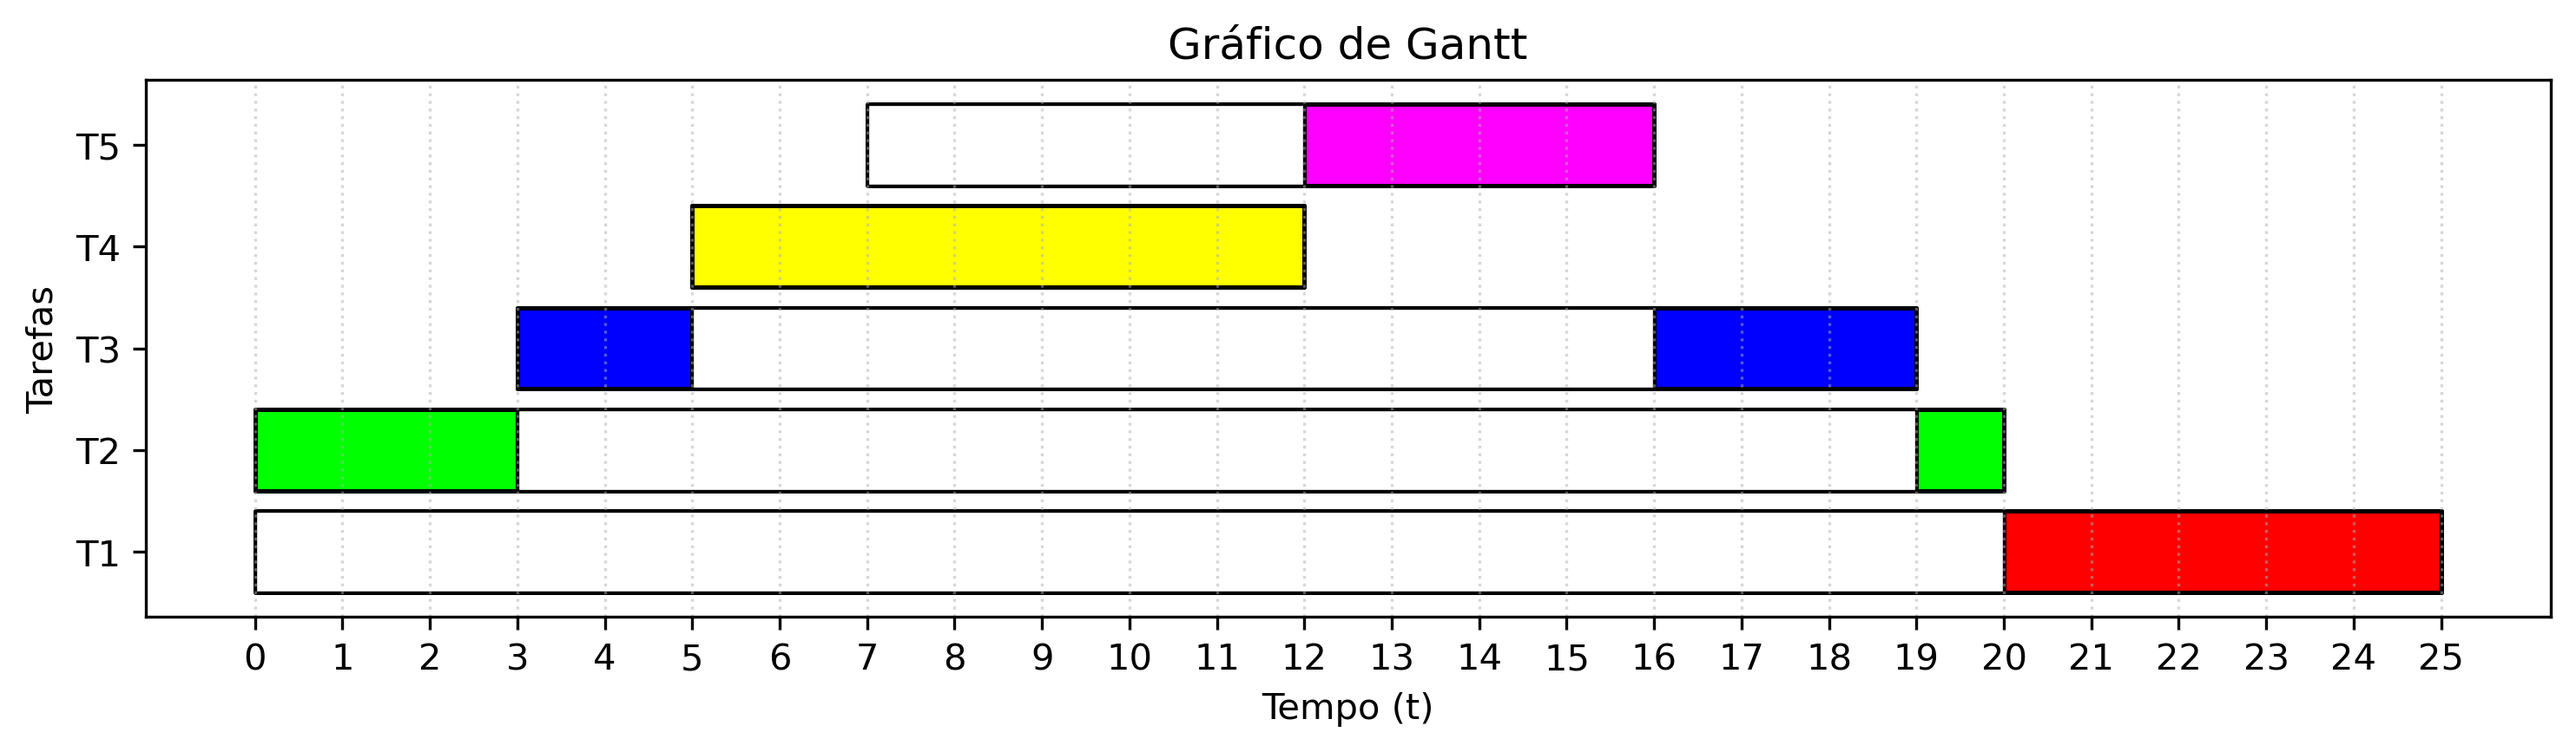
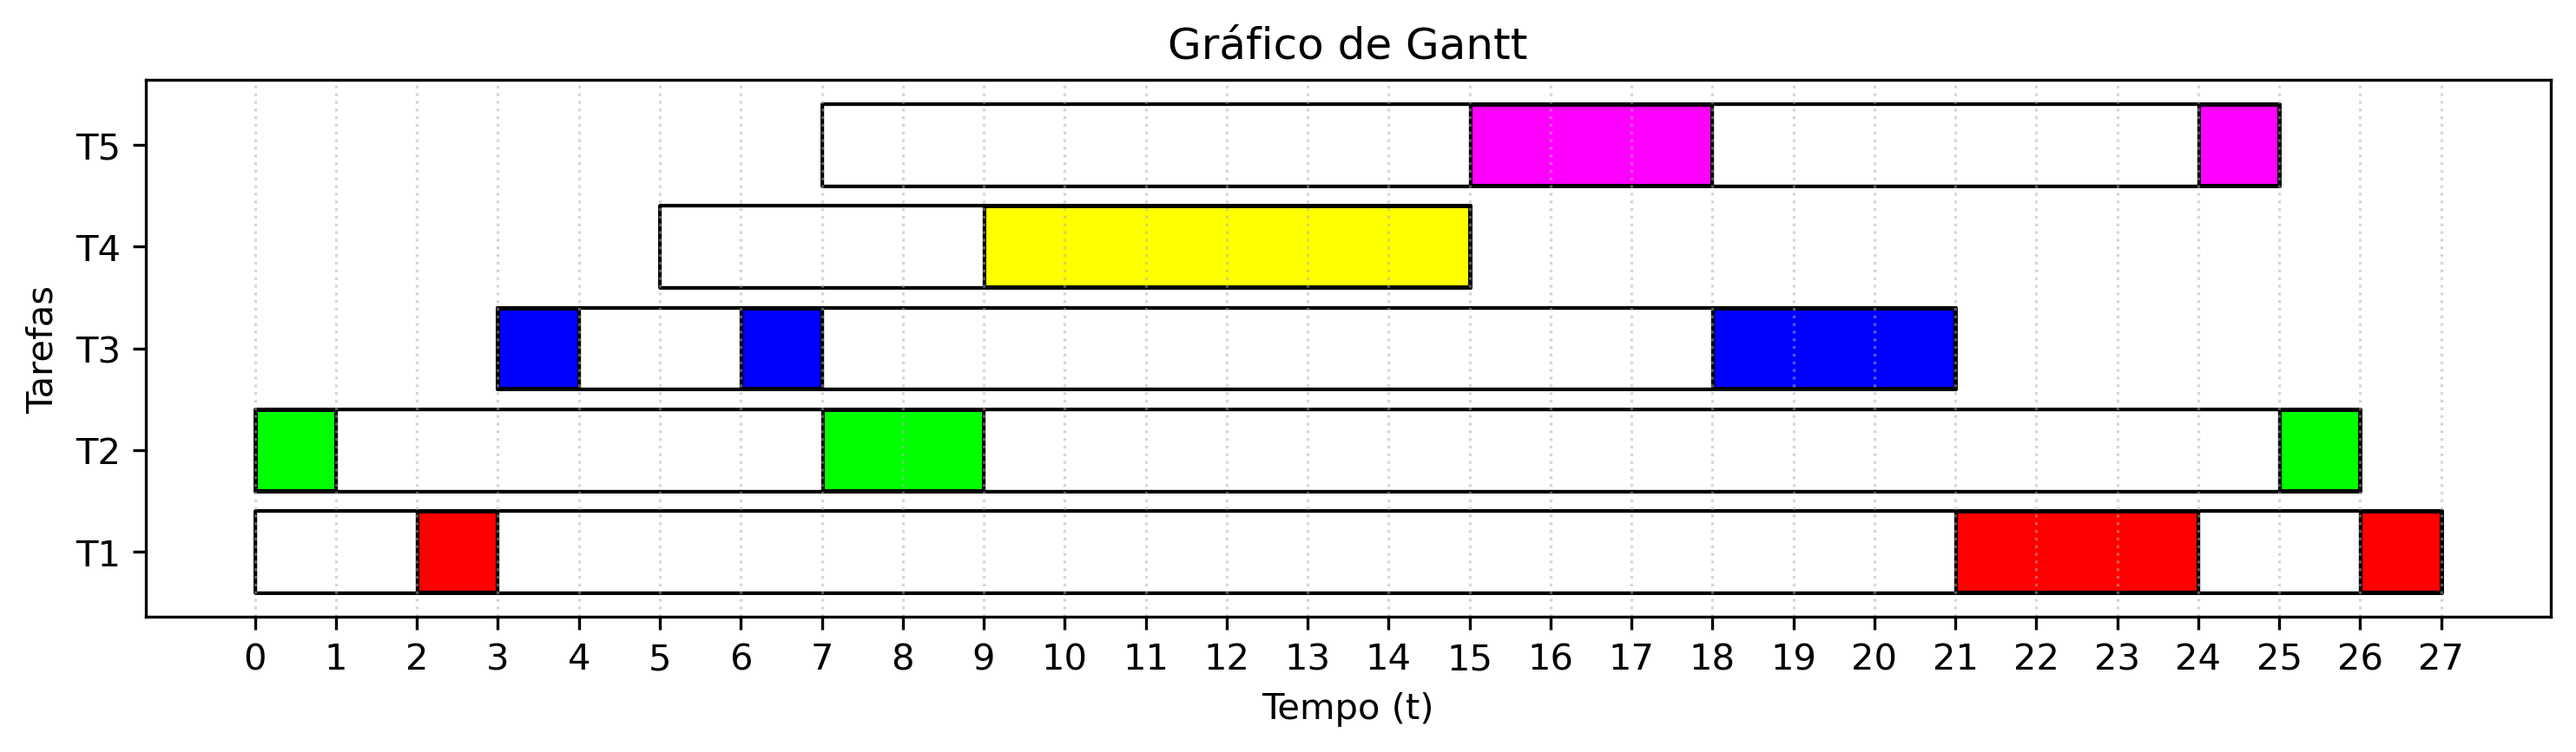
fix: corretion mutex e IO

diff --git a/simulator.py b/simulator.py
@@ -336,44 +336,82 @@ class Simulator:
                     self._process_io_events(task)
         
         if self.running_task:
-            # Incrementa tempo de execução relativo ANTES de processar eventos
-            self.running_task.elapsed_time += 1
-            
-            # Processa eventos de IO para a tarefa em execução
-            self._process_io_events(self.running_task)
-            
-            # Se tarefa ficou bloqueada por IO, não executa CPU este tick
-            if self.running_task.io_blocked:
-                self.timeline.append(None)  # CPU ociosa por bloqueio de IO
-                # Readiciona tarefa à fila de prontos
-                if self.running_task not in self.ready_queue and not self.running_task.completed:
-                    self.ready_queue.append(self.running_task)
-                # Tarefa bloqueada também registra espera
-                for task in self.ready_queue:
-                    if not task.completed:
-                        self.wait_map.setdefault(task.id, []).append(self.time)
-                self.running_task = None
-                return
-            
-            # Processa eventos de mutex para a tarefa em execução
-            self._process_mutex_events(self.running_task)
-            
-            # Se tarefa ficou bloqueada por mutex, não executa CPU este tick
-            if self.running_task.blocked:
-                self.timeline.append(None)  # CPU ociosa por bloqueio de mutex
-                # Readiciona tarefa à fila de prontos
-                if self.running_task not in self.ready_queue and not self.running_task.completed:
-                    self.ready_queue.append(self.running_task)
-                # Tarefa bloqueada também registra espera
-                for task in self.ready_queue:
-                    if not task.completed:
-                        self.wait_map.setdefault(task.id, []).append(self.time)
-                self.running_task = None
-                return
-            
-            self.running_task.remaining_time -= 1
-            self.running_task.executed_ticks += 1
-            self.running_task.executed_count += 1
+            # CRITÉRIO 3.6: Se tarefa está iniciando execução (elapsed_time==0),
+            # processa eventos de t=0 ANTES de incrementar
+            if self.running_task.elapsed_time == 0:
+                # Processa eventos de IO para t=0
+                self._process_io_events(self.running_task)
+                
+                # Se tarefa ficou bloqueada por IO em t=0, não executa CPU este tick
+                if self.running_task.io_blocked:
+                    self.timeline.append(None)
+                    if self.running_task not in self.ready_queue and not self.running_task.completed:
+                        self.ready_queue.append(self.running_task)
+                    for task in self.ready_queue:
+                        if not task.completed:
+                            self.wait_map.setdefault(task.id, []).append(self.time)
+                    self.running_task = None
+                    return
+                
+                # Processa eventos de mutex para t=0
+                self._process_mutex_events(self.running_task)
+                
+                # Se tarefa ficou bloqueada por mutex em t=0, não executa CPU este tick
+                if self.running_task.blocked:
+                    self.timeline.append(None)
+                    if self.running_task not in self.ready_queue and not self.running_task.completed:
+                        self.ready_queue.append(self.running_task)
+                    for task in self.ready_queue:
+                        if not task.completed:
+                            self.wait_map.setdefault(task.id, []).append(self.time)
+                    self.running_task = None
+                    return
+                
+                # AGORA incrementa elapsed_time para 1 e executa CPU
+                self.running_task.elapsed_time += 1
+                self.running_task.remaining_time -= 1
+                self.running_task.executed_ticks += 1
+                self.running_task.executed_count += 1
+            else:
+                # Para execuções subsequentes, incrementa ANTES de processar
+                self.running_task.elapsed_time += 1
+                
+                # Processa eventos de IO
+                self._process_io_events(self.running_task)
+                
+                # Se tarefa ficou bloqueada por IO, não executa CPU este tick
+                if self.running_task.io_blocked:
+                    self.timeline.append(None)  # CPU ociosa por bloqueio de IO
+                    # Readiciona tarefa à fila de prontos
+                    if self.running_task not in self.ready_queue and not self.running_task.completed:
+                        self.ready_queue.append(self.running_task)
+                    # Tarefa bloqueada também registra espera
+                    for task in self.ready_queue:
+                        if not task.completed:
+                            self.wait_map.setdefault(task.id, []).append(self.time)
+                    self.running_task = None
+                    return
+                
+                # Executa a tarefa (decrementa remaining_time)
+                self.running_task.remaining_time -= 1
+                self.running_task.executed_ticks += 1
+                self.running_task.executed_count += 1
+                
+                # APÓS iniciar/executar a tarefa, processa eventos de mutex
+                self._process_mutex_events(self.running_task)
+                
+                # Se tarefa ficou bloqueada por mutex, não continua
+                if self.running_task.blocked:
+                    self.timeline.append(None)  # CPU ociosa por bloqueio de mutex
+                    # Readiciona tarefa à fila de prontos
+                    if self.running_task not in self.ready_queue and not self.running_task.completed:
+                        self.ready_queue.append(self.running_task)
+                    # Tarefa bloqueada também registra espera
+                    for task in self.ready_queue:
+                        if not task.completed:
+                            self.wait_map.setdefault(task.id, []).append(self.time)
+                    self.running_task = None
+                    return
             
             # Adiciona ID à timeline, com marcação se foi sorteio
             task_id = self.running_task.id
@@ -400,7 +438,7 @@ class Simulator:
                 # Rotaciona tarefa e deixa a "CPU" livre
                 self.ready_queue.append(self.running_task)
                 self.running_task.executed_count = 0
-                # self.running_task = None
+                self.running_task = None
         else:
             # CPU ociosa
             self.timeline.append(None)
@@ -411,6 +449,9 @@ class Simulator:
     def _process_io_events(self, task):
         """Processa eventos de IO para uma tarefa em execução.
         
+        Critério 3.4: Uma ação de E/S dura yy ticks. Quando termina, gera IRQ
+        no instante imediatamente depois do término.
+        
         Tempo relativo (elapsed_time) determina qual evento disparar.
         Quando IO é iniciado:
         - Marca tarefa como io_blocked=True
@@ -418,7 +459,7 @@ class Simulator:
         
         Cada tick enquanto io_bloqueada:
         - Decrementa io_remaining
-        - Quando io_remaining==0, desbloqueia tarefa
+        - Quando io_remaining==0, desbloqueia tarefa e gera IRQ
         """
         # Se tarefa já está bloqueada por IO, decrementa contador
         if task.io_blocked:
@@ -426,19 +467,24 @@ class Simulator:
             if task.io_remaining <= 0:
                 task.io_blocked = False
                 task.io_remaining = 0
-                print(f"Tarefa {task.id} desbloqueada de IO em t={self.time}")
+                # CRITÉRIO 3.4: IRQ gerada no instante imediatamente depois do término
+                print(f"[IRQ] Tarefa {task.id} completou IO - interrupção gerada em t={self.time}")
                 # Readiciona à fila se não estiver lá
                 if task not in self.ready_queue and not task.completed:
                     self.ready_queue.append(task)
             return
         
         # Procura por IO events que começam neste tempo relativo
+        # CRITÉRIO 3.3: Tempo relativo ao início da tarefa
         pending_io = task.get_pending_io(task.elapsed_time)
         if pending_io:
             # Inicia novo IO
             task.io_blocked = True
             task.io_remaining = pending_io["duration"]
-            print(f"Tarefa {task.id} iniciando IO com duração {pending_io['duration']} em t={self.time}")
+            # CRITÉRIO 3.2: Formato IO:xx-yy onde yy é duração
+            print(f"[IO START] Tarefa {task.id} iniciando E/S (duração={pending_io['duration']} ticks) em t={self.time}")
+
+
 
     def _process_mutex_events(self, task):
         """Processa eventos de lock/unlock para uma tarefa em execução.

diff --git a/config_loader.py b/config_loader.py
@@ -43,10 +43,19 @@ def generate_default_config(path="sample_config.txt", tasks=5):
 
 def parse_task_line(line):
     parts = line.split(";")
-    # Garante 6 campos (último eventos pode faltar)
-    while len(parts) < 6:
+    # Garante pelo menos 5 campos (id, cor, ingresso, duração, prioridade)
+    while len(parts) < 5:
         parts.append("")
-    id_, color, arrival, duration, priority, events = parts[:6]
+    
+    id_ = parts[0]
+    color = parts[1]
+    arrival = parts[2]
+    duration = parts[3]
+    priority = parts[4]
+    
+    # Eventos são todos os campos depois do 5º, separados por ";"
+    # Junta novamente com "," para que parse_task_line possa processar
+    events = ",".join(parts[5:]) if len(parts) > 5 else ""
     # Aplicar defaults e conversões seguras
     def to_int(val, default):
         try:
@@ -141,12 +150,12 @@ def parse_mutex_event(event_str):
         return None
 
 def parse_io_event(event_str):
-    """Parseia evento de E/S no formato IOxx-yy.
+    """Parseia evento de E/S no formato IO:xx-yy.
     
-    IOxx-yy - Operação de E/S que inicia no tempo xx e dura yy ticks
+    IO:xx-yy - Operação de E/S que inicia no tempo xx e dura yy ticks
     
     Args:
-        event_str (str): ex: "IO2-5", "IO10-3"
+        event_str (str): ex: "IO:2-5", "IO:10-3"
         
     Returns:
         dict or None: {"type": "io", "time": int, "duration": int}
@@ -158,7 +167,11 @@ def parse_io_event(event_str):
         return None
     
     try:
-        rest = event_str[2:]  # "2-5" ou "10-3"
+        rest = event_str[2:]  # ":2-5" ou ":10-3" ou "2-5" (compatibilidade)
+        
+        # Remove o ":" se estiver presente
+        if rest.startswith(":"):
+            rest = rest[1:]
         
         if "-" not in rest:
             return None

diff --git a/tcb.py b/tcb.py
@@ -73,7 +73,9 @@ class TaskControlBlock:
         return [e for e in self.events if e.get("time") == current_time]
     
     def get_pending_io(self, current_time):
-        """Retorna eventos de IO que devem iniciar no tempo atual.
+        """Retorna PRIMEIRO evento de IO que deve iniciar no tempo atual.
+        
+        DEPRECATED: use get_pending_ios() em vez disso para suportar múltiplos IOs.
         
         Args:
             current_time (int): tempo decorrido desde o início da execução
@@ -85,6 +87,19 @@ class TaskControlBlock:
             if io_event.get("time") == current_time:
                 return io_event
         return None
+    
+    def get_pending_ios(self, current_time):
+        """Retorna TODOS os eventos de IO que devem iniciar no tempo atual.
+        
+        Mantém ordem de aparição no arquivo de configuração (critério 3.5).
+        
+        Args:
+            current_time (int): tempo decorrido desde o início da execução
+            
+        Returns:
+            list: eventos de IO que iniciam neste tick, em ordem
+        """
+        return [io_event for io_event in self.io_events if io_event.get("time") == current_time]
     
     def __repr__(self):
         status = "BLOCKED" if self.blocked else "IO_BLOCKED" if self.io_blocked else "RUNNING" if not self.completed else "DONE"
